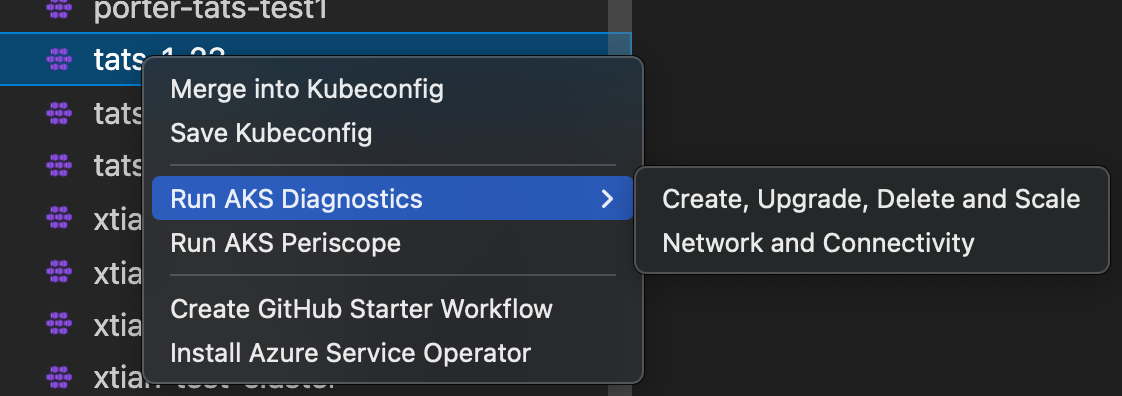
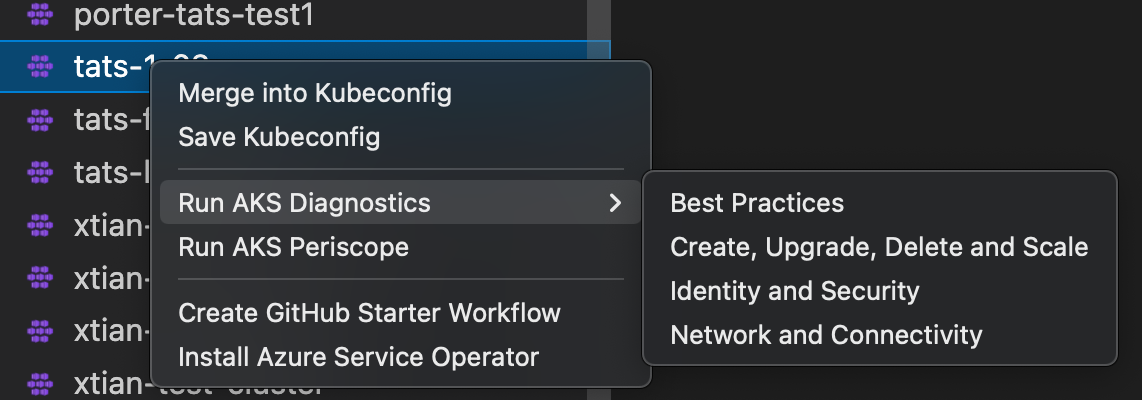
Publish 0.0.15 (#110)

Changed region(s): [[0.0, 0.0, 0.9982, 1.0], [0.967, 0.4242, 0.9982, 0.4848], [0.4991, 0.9697, 0.5615, 1.0]]

diff --git a/README.md b/README.md
@@ -42,7 +42,9 @@ Right click on your AKS cluster and click on **Save Kubeconfig** to save the kub
 
 Right click on your AKS cluster and click on **Run AKS Diagnostics** to display diagnostics information based on your AKS cluster's backend telemetry for:
 
+- Best Practices
 - Create, Upgrade, Delete and Scale issues
+- Identity and Security
 - Network and Connectivity issues
 
 To perform further checks on your AKS cluster to troubleshoot and get recommended solutions, click on the AKS Diagnostics link at the top of the page to open it for the selected cluster. For more information on AKS Diagnostics, visit [AKS Diagnostics Overview](https://docs.microsoft.com/azure/aks/concepts-diagnostics). 

diff --git a/CHANGELOG.md b/CHANGELOG.md
@@ -1,5 +1,14 @@
 # Change Log
 
+## [0.0.15]
+
+* Refactor to ease creation of new commands.
+* Fix aks-periscope deprecated beta tag.
+* Integrating Best Practices detector.
+* Integrate Identity and security diagnostics
+
+Thanks to @rzhang628, @peterbom.
+
 ## [0.0.14]
 
 * Retiring [deploy-to-azure extension](https://marketplace.visualstudio.com/items?itemName=ms-vscode-deploy-azure.azure-deploy) CI/CD commands.
